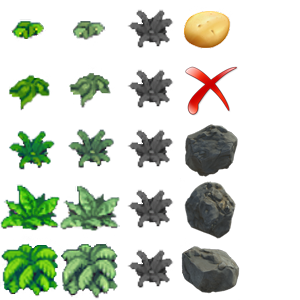
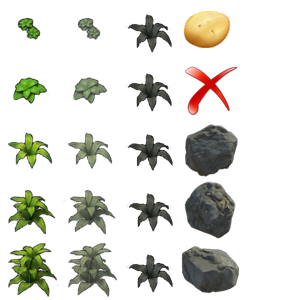
new graphics and semi-fixed updating

diff --git a/js/Maps8.js b/js/Maps8.js
@@ -43,7 +43,7 @@ var testMaps = {
             [0, 0,  0,  0,  0,  0,  0,  0,  16,  20,16, 16, 4,  10, 10, 0,  0,  0,  0,  0,  0,  0,  0],
             [0, 0,  0,  0,  0,  0,  0,  0,  20,  20,20, 20, 20, 20, 20, 0,  0,  0,  0,  0,  0,  0,  0],
 
-            8, 0, 0, 0, 0, 0.04, 0.985], //NUM MOVES ALLOWED/ALPHA1/BETA1/ALPHA2/BETA2/POTATO PRICE/ DISCOUNT FACTOR
+            6, 1, 0, 1, 0, 0.04, 0.985], //NUM MOVES ALLOWED/ALPHA1/BETA1/ALPHA2/BETA2/POTATO PRICE/ DISCOUNT FACTOR
 
 
 
@@ -84,7 +84,7 @@ var testMaps = {
             [0, 0,  0,  0,  0,  0,  0,  0,  2,  2,  1,  3,  3,   4, 3,  0,  0,  0,  0,  0,  0,  0,  0],
             [0, 0,  0,  0,  0,  0,  0,  0,  4,  4,  4,  4,  4,   4, 4,  0,  0,  0,  0,  0,  0,  0,  0],
 
-            8, 0, 0, 0, 0, 0.04, 0.985], //NUM MOVES ALLOWED/ALPHA1/BETA1/ALPHA2/BETA2/POTATO PRICE/ DISCOUNT FACTOR
+            6, 1, 0, 1, 0, 0.04, 0.985], //NUM MOVES ALLOWED/ALPHA1/BETA1/ALPHA2/BETA2/POTATO PRICE/ DISCOUNT FACTOR
 
 
     map3:                                                                                            //ROW QUAL/PAYOFF/EXPL
@@ -124,7 +124,7 @@ var testMaps = {
             [0, 0,  0,  0,  0,  0,  0,  0,  10, 10, 4,  16, 16,  20,16, 0,  0,  0,  0,  0,  0,  0,  0],
             [0, 0,  0,  0,  0,  0,  0,  0,  20, 20, 20, 20, 20,  20,20, 0,  0,  0,  0,  0,  0,  0,  0],
 
-            8, 0, 0, 0, 0, 0.04, 0.985], //NUM MOVES ALLOWED/ALPHA1/BETA1/ALPHA2/BETA2/POTATO PRICE/ DISCOUNT FACTOR
+            6, 1, 0, 1, 0, 0.04, 0.985], //NUM MOVES ALLOWED/ALPHA1/BETA1/ALPHA2/BETA2/POTATO PRICE/ DISCOUNT FACTOR
 
     map4:                                                                                            //ROW QUAL/PAYOFF/EXPL
         [[  [5,  5,  5,  5,  5,  5,  5,  5,  5,  5,  5,  5,  5,  5,  5,  5,  5,  5,  5,  5,  5,  5,  5], // 0   /  0 /  0
@@ -163,7 +163,7 @@ var testMaps = {
             [0, 0,  0,  0,  0,  0,  0,  0,  3,   4, 3,  3,  1,  2,  2,  0,  0,  0,  0,  0,  0,  0,  0],
             [0, 0,  0,  0,  0,  0,  0,  0,  4,   4, 4,  4,  4,  4,  4,  0,  0,  0,  0,  0,  0,  0,  0],
 
-            8, 0, 0, 0, 0, 0.04, 0.985], //NUM MOVES ALLOWED/ALPHA1/BETA1/ALPHA2/BETA2/POTATO PRICE/ DISCOUNT FACTOR
+            6, 1, 0, 1, 0, 0.04, 0.985], //NUM MOVES ALLOWED/ALPHA1/BETA1/ALPHA2/BETA2/POTATO PRICE/ DISCOUNT FACTOR
 
 
     map5:                                                                                            //ROW QUAL/PAYOFF/EXPL
@@ -203,7 +203,7 @@ var testMaps = {
             [0, 0,  0,  0,  0,  0,  0,  0,  19,  10, 2,  2,  20,2,  8,  0,  0,  0,  0,  0,  0,  0,  0],
             [0, 0,  0,  0,  0,  0,  0,  0,  20,  20, 20, 20, 20,20, 20, 0,  0,  0,  0,  0,  0,  0,  0],
 
-            8, 0, 0, 0, 0, 0.04, 0.985], //NUM MOVES ALLOWED/ALPHA1/BETA1/ALPHA2/BETA2/POTATO PRICE/ DISCOUNT FACTOR
+            6, 1, 0, 1, 0, 0.04, 0.985], //NUM MOVES ALLOWED/ALPHA1/BETA1/ALPHA2/BETA2/POTATO PRICE/ DISCOUNT FACTOR
 
 
     map6:                                                                                            //ROW QUAL/PAYOFF/EXPL
@@ -243,7 +243,7 @@ var testMaps = {
             [0, 0,  0,  0,  0,  0,  0,  0,  8,  2,  20,2,  0,  1,  2,   0,  0,  0,  0,  0,  0,  0,  0],
             [0, 0,  0,  0,  0,  0,  0,  0,  20, 20, 20,20, 2,  2,  2,   0,  0,  0,  0,  0,  0,  0,  0],
 
-            8, 0, 0, 0, 0, 0.04, 0.985], //NUM MOVES ALLOWED/ALPHA1/BETA1/ALPHA2/BETA2/POTATO PRICE/ DISCOUNT FACTOR
+            6, 1, 0, 1, 0, 0.04, 0.985], //NUM MOVES ALLOWED/ALPHA1/BETA1/ALPHA2/BETA2/POTATO PRICE/ DISCOUNT FACTOR
 
 
     map7:                                                                                            //ROW QUAL/PAYOFF/EXPL
@@ -283,7 +283,7 @@ var testMaps = {
             [0, 0,  0,  0,  0,  0,  0,  0,  8,  2,  20,2,  2,  10, 19,  0,  0,  0,  0,  0,  0,  0,  0],
             [0, 0,  0,  0,  0,  0,  0,  0,  20, 20, 20,20, 20, 20, 20,  0,  0,  0,  0,  0,  0,  0,  0],
 
-            8, 0, 0, 0, 0, 0.04, 0.985], //NUM MOVES ALLOWED/ALPHA1/BETA1/ALPHA2/BETA2/POTATO PRICE/ DISCOUNT FACTOR
+            6, 1, 0, 1, 0, 0.04, 0.985], //NUM MOVES ALLOWED/ALPHA1/BETA1/ALPHA2/BETA2/POTATO PRICE/ DISCOUNT FACTOR
 
     map8:                                                                                            //ROW QUAL/PAYOFF/EXPL
         [[  [5,  5,  5,  5,  5,  5,  5,  5,  5,  5,  5,  5,  5,  5,  5,  5,  5,  5,  5,  5,  5,  5,  5], // 0   /  0 /  0
@@ -322,7 +322,7 @@ var testMaps = {
             [0, 0,  0,  0,  0,  0,  0,  0,  2,   1,  0,  2,  20,2,  8,  0,  0,  0,  0,  0,  0,  0,  0],
             [0, 0,  0,  0,  0,  0,  0,  0,  2,   2,  2,  20, 20,20, 20, 0,  0,  0,  0,  0,  0,  0,  0],
 
-            8, 0, 0, 0, 0, 0.04, 0.985] //NUM MOVES ALLOWED/ALPHA1/BETA1/ALPHA2/BETA2/POTATO PRICE/ DISCOUNT FACTOR
+            6, 1, 0, 1, 0, 0.04, 0.985] //NUM MOVES ALLOWED/ALPHA1/BETA1/ALPHA2/BETA2/POTATO PRICE/ DISCOUNT FACTOR
 
 };
 

diff --git a/js/World.js b/js/World.js
@@ -198,7 +198,6 @@ function OpenLevelClass(numCols, numRows, maxMoves, alpha1, beta1, alpha2, beta2
 
     (function () {
         'use strict';
-
         for (var eachCol=0; eachCol<numCols; eachCol++) {
             that.exploredColumn[eachCol] = 0;
             that.payoffColumn[eachCol] = 0;
@@ -307,8 +306,11 @@ function getQuality(whichCol, whichRow){
     var beta2 = curMapConst.beta2;
 
     // Bayesian estimation that assumes average values for the corresponding row/ col parameter in the grid.
-    var qualCol = ((alpha1+curMapVar.payoffColumn[whichCol])/(alpha1+beta1+curMapVar.exploredColumn[whichCol])) / (alpha2/(alpha2+beta2));
-    var qualRow = ((alpha2+curMapVar.payoffRow[whichRow])/(alpha2+beta2+curMapVar.exploredRow[whichRow])) / (alpha1/(alpha1+beta1));
+    //var qualCol = ((alpha1+curMapVar.payoffColumn[whichCol])/(alpha1+beta1+curMapVar.exploredColumn[whichCol])) / (alpha2/(alpha2+beta2));
+    //var qualRow = ((alpha2+curMapVar.payoffRow[whichRow])/(alpha2+beta2+curMapVar.exploredRow[whichRow])) / (alpha1/(alpha1+beta1));
+
+    var qualCol = ((alpha1+curMapVar.payoffColumn[whichCol])/(alpha1+beta1+curMapVar.exploredColumn[whichCol])) / (alpha1/(alpha1+beta1));
+    var qualRow = ((alpha2+curMapVar.payoffRow[whichRow])/(alpha2+beta2+curMapVar.exploredRow[whichRow])) / (alpha2/(alpha2+beta2));
 
     var qualLevelCol = getQualityLevel(qualCol);
     var qualLevelRow = getQualityLevel(qualRow);
